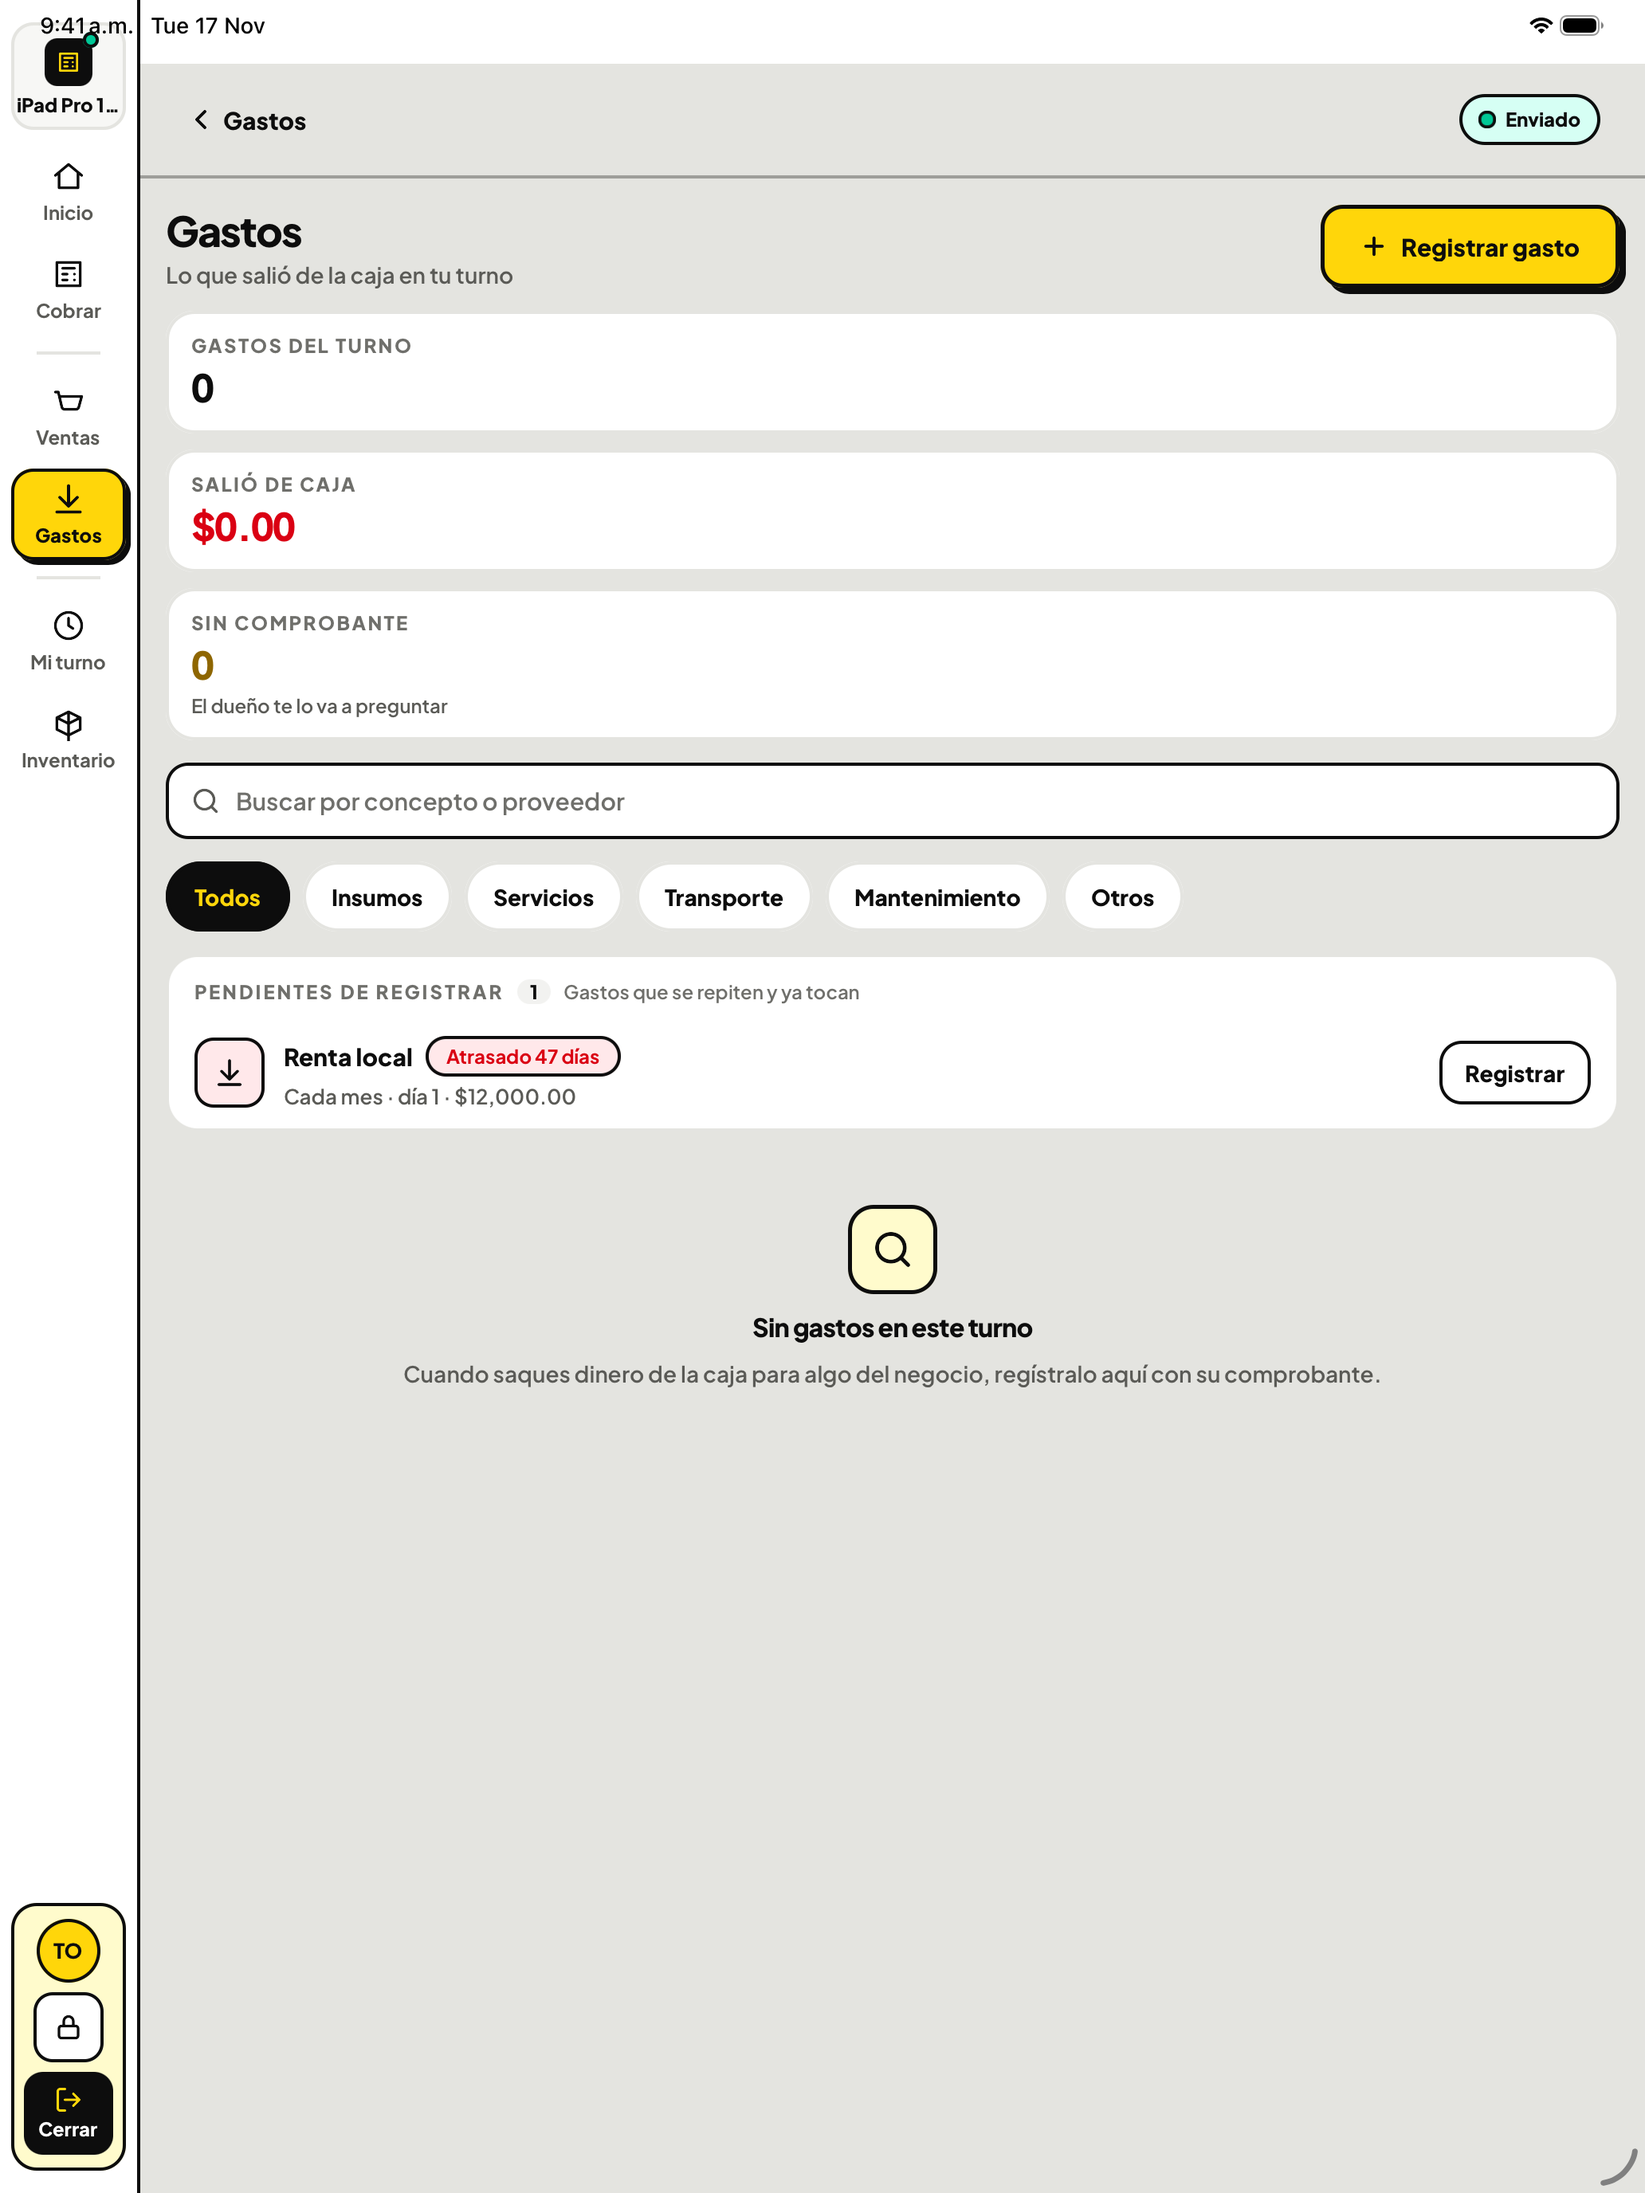
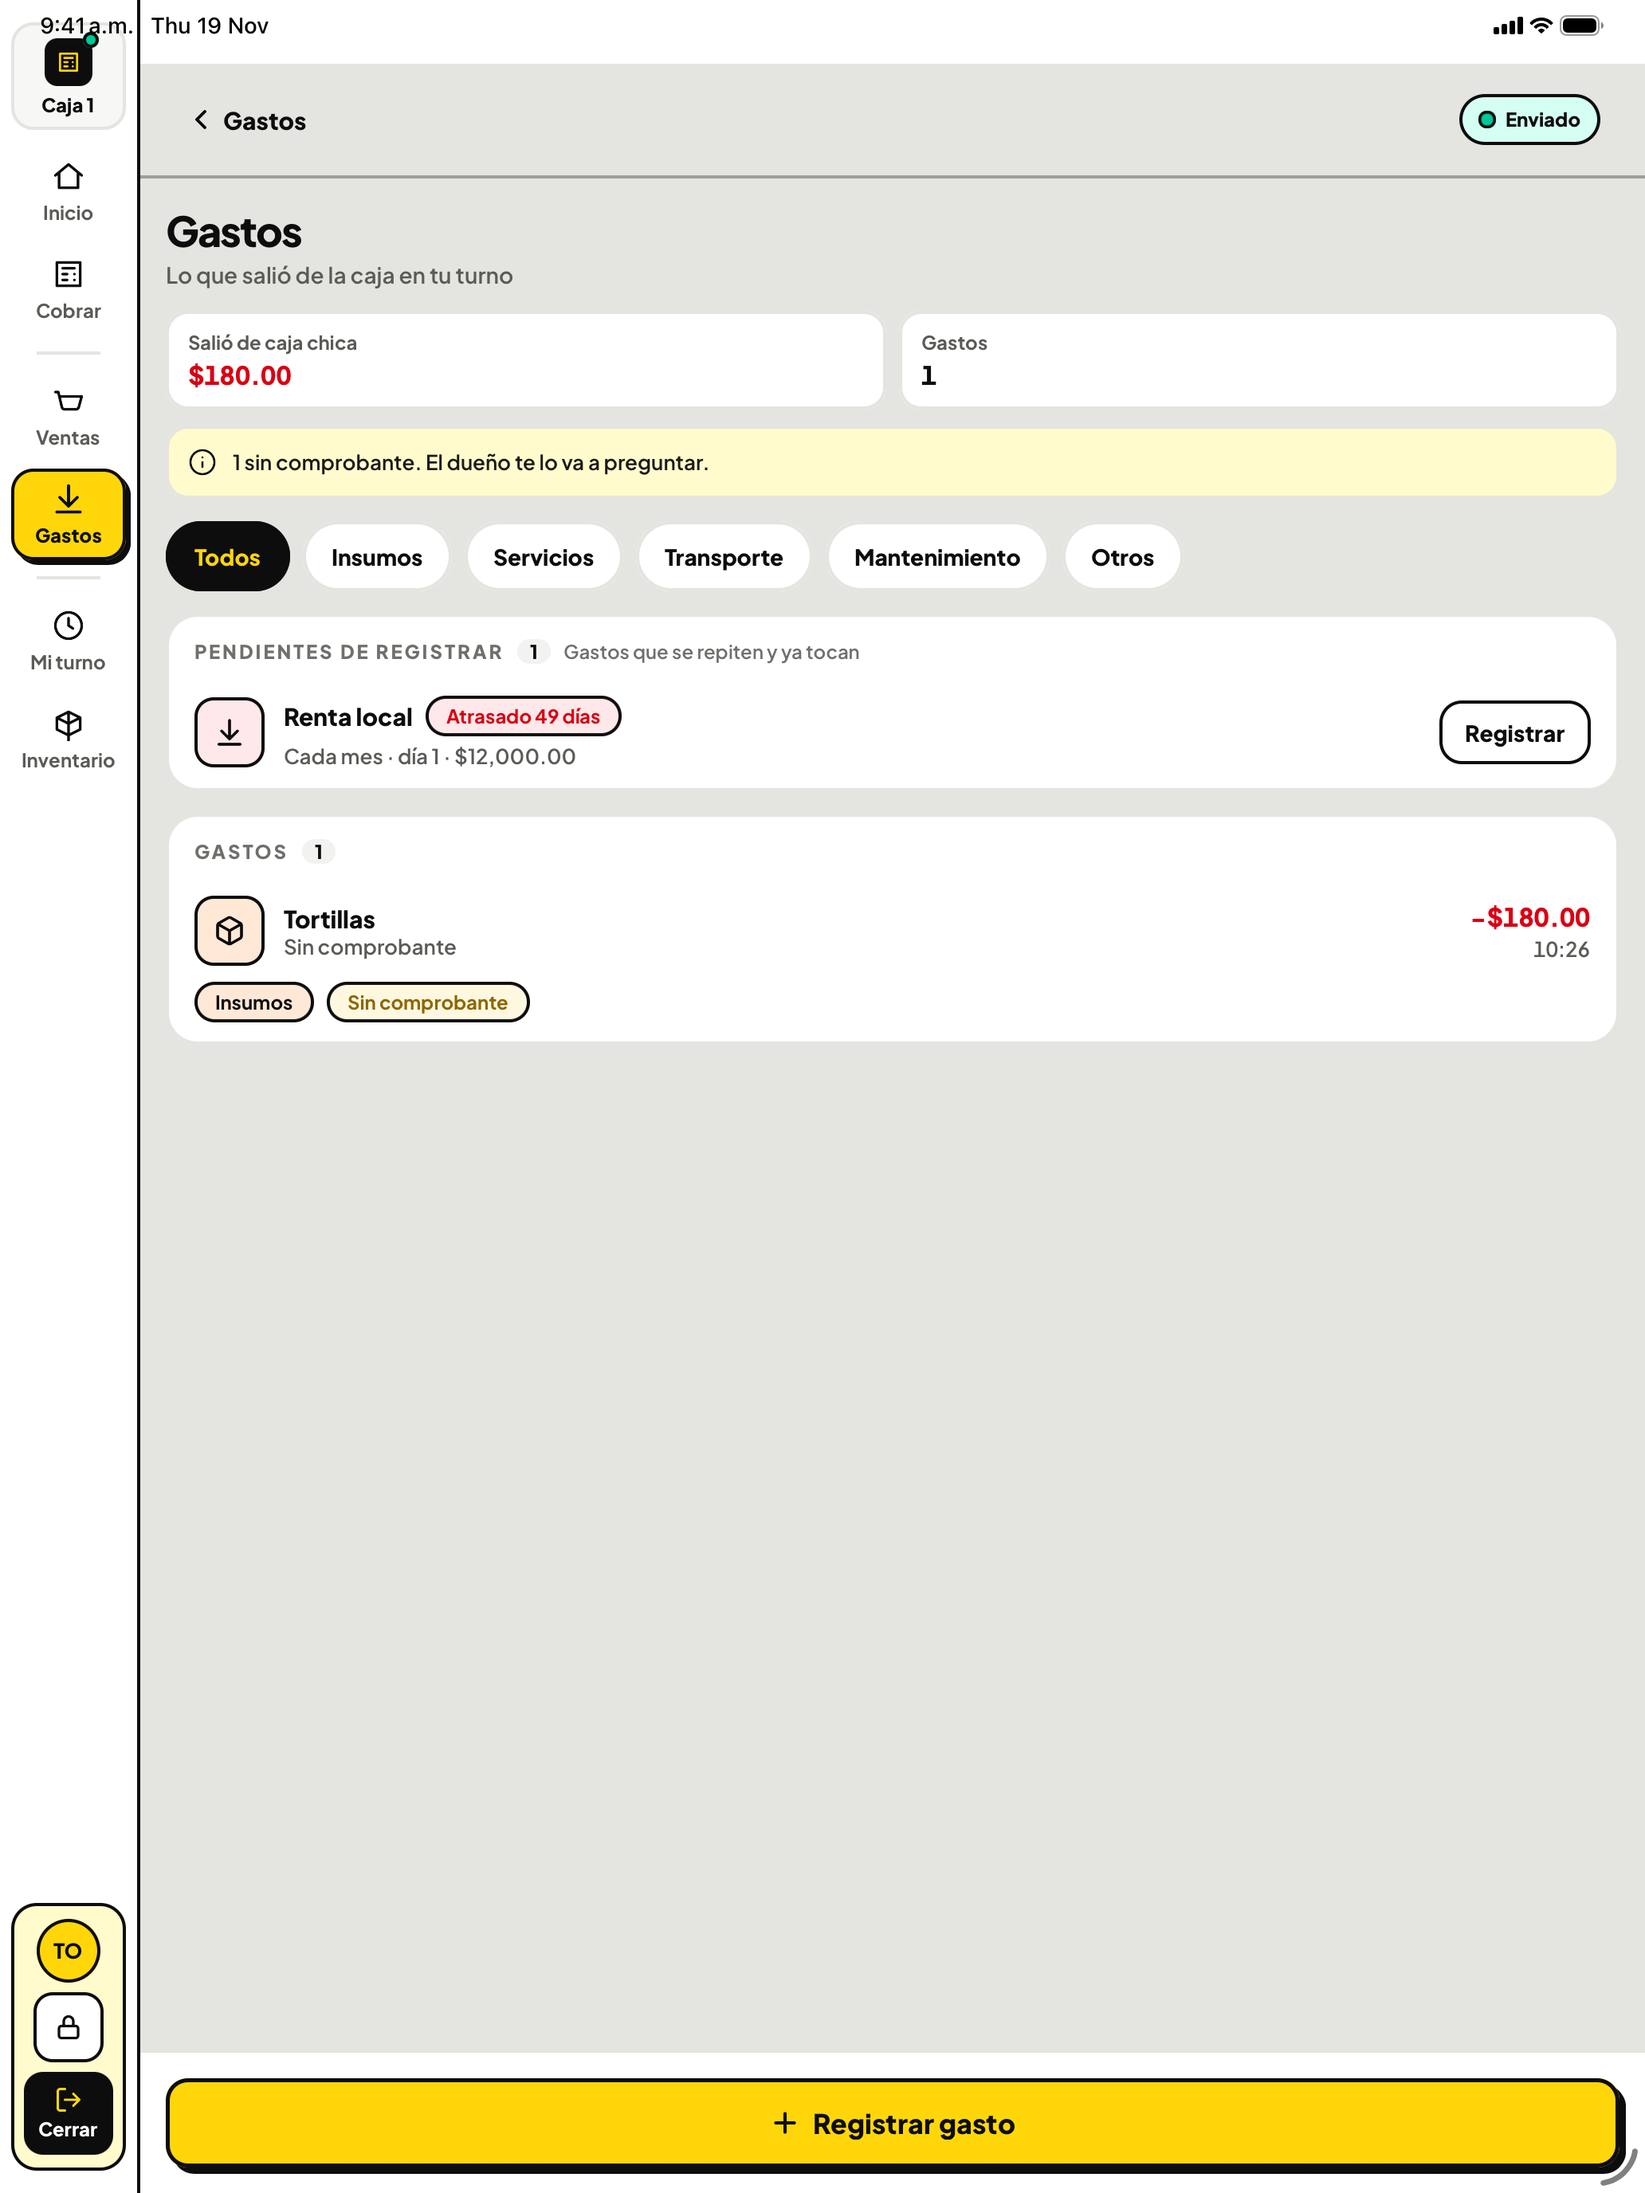
assets(store): the App Store set again, Inicio first, with a real gasto (item 5)
The set opened on Vincular's privacy notice. The numbers are now the
store's order: 01 Inicio (Don greets there), 02 Cobrar, 03 ¿Cómo paga?,
04 Venta hecha, 05 Mi turno, 06 Ventas, 07 Gastos, 08 Vincular last.

The demo data, as the review asked:
- The caja is «Caja 1», not «iPhone 17 Pro Max»: the simulator is renamed
  and rebooted for the run (the header reads the device's name).
- The bell reads 2, the owner's messages: all twenty products are stocked
  on every device, so none is a stock-bajo aviso, and the stale queue
  notice is gone with the fix this branch sits on (#175).
- One gasto, $180.00 of tortillas, recorded before Inicio's shot, so
  Inicio, Mi turno and Gastos all say $2,085.00. It has no comprobante:
  the phone's gasto form takes no photo yet.
- Every shot has its signal bars: the status bar override sets them.

The flow's helpers: an entrada centres its row, since a row at the foot of
the list sat under the tab bar and the tap opened Ventas; the gasto's
concepto is typed in pieces and retyped until it reads right, since the
driver dropped letters («Tortllas»).

Google Play keeps its 17 Nov set until the December re-shoot; its manifest
says the flow changed.

diff --git a/app-registration/apple/SCREENSHOTS.md b/app-registration/apple/SCREENSHOTS.md
@@ -1,28 +1,34 @@
 # Screenshots manifest — `screenshots/`
 
-Captured 2026-11-17 from the real app by one Maestro flow,
+Captured 2026-11-19 from the real app by one Maestro flow,
 [`store-screenshots.yaml`](../../apps/mobile/maestro/flows/internal/store-screenshots.yaml),
-against the contracts mock, on `main` with the brand font (PR #117). No
+against the contracts mock, on `main` plus the Avisos fix (PR #175). No
 compositing, no fixture screens: what the app shows for the demo taquería
 («Tacos La Esquina») is what the shots contain. Play's set comes from the same
 flow ([`../google-play/SCREENSHOTS.md`](../google-play/SCREENSHOTS.md)).
 
 ## The story
 
-The turno opens with a $2,000 fondo; ten products arrive (all twenty on the
-iPad, whose Cobrar shows every row); then three sales: cash with change (2 Alambre, 2 Agua de horchata,
-1 Café, $265.00 paid with $500), transfer ($150.00) and card ($227.50).
+The caja is «Caja 1». The turno opens with a $2,000 fondo; all twenty
+products arrive, so nothing reads «Quedan 0» and the bell counts only the
+owner's two messages; then three sales: cash with change (2 Alambre, 2 Agua de
+horchata, 1 Café, $265.00 paid with $500), transfer ($150.00) and card
+($227.50); and one gasto, $180.00 of tortillas. Expected cash: $2,085.00.
+
+The numbers are the store's order, not the capture's: Inicio first, because
+Don greets there; Vincular last, because a privacy notice should not open the
+set.
 
 | Shot             | Screen                                | What it shows                      |
 | ---------------- | ------------------------------------- | ---------------------------------- |
-| `01-activacion`  | Vincular, the typed code              | This app joins an existing negocio |
-| `02-inicio`      | Inicio with the turno open            | The operator's view of the day     |
-| `03-cobrar`      | Cobrar: catalogue + ticket building   | The money screen                   |
-| `04-checkout`    | «¿Cómo paga?», $500 and the change    | Cash, card, transfer, fiado        |
-| `05-venta-hecha` | Venta hecha with «Dale de cambio»     | The sale closes, receipt goes out  |
+| `01-inicio`      | Inicio with the turno open            | The operator's view of the day     |
+| `02-cobrar`      | Cobrar: catalogue + ticket building   | The money screen                   |
+| `03-checkout`    | «¿Cómo paga?», $500 and the change    | Cash, card, transfer, fiado        |
+| `04-venta-hecha` | Venta hecha with «Dale de cambio»     | The sale closes, receipt goes out  |
+| `05-mi-turno`    | Mi turno: the cash that must be there | The turno at a glance              |
 | `06-ventas`      | Ventas del turno                      | What the turno recorded            |
-| `07-gastos`      | Gastos del turno (cifras, recurrente) | What left the drawer               |
-| `08-mi-turno`    | Mi turno: the cash that must be there | The turno at a glance              |
+| `07-gastos`      | Gastos del turno with one gasto       | What left the drawer               |
+| `08-activacion`  | Vincular, the typed code              | This app joins an existing negocio |
 
 ## Devices and sizes (Apple's required sets)
 
@@ -33,12 +39,12 @@ iPad, whose Cobrar shows every row); then three sales: cash with change (2 Alamb
 
 ## Known imperfections (for the next re-shoot)
 
-- **Gastos shows no gasto**: since M-15 it lists only the turno's stamped
-  gastos, and the story records none, so its cifras read zero and the empty
-  state's search badge peeks above the tab bar. Only «Renta local», the due
-  recurrente, fills the screen.
-- **The iPad's code boxes** show the typed code faintly behind the first box
-  («VALDK7M3»): the hidden field's own text bleeds through (shot 01).
+- **The gasto has no comprobante**: the phone's gasto form takes no photo
+  yet, so the row and the note say «Sin comprobante».
+- **«Renta local» reads «Atrasado 49 días»**: the mock's recurrente is due on
+  the 1st and nobody registers it in the story.
+- **The iPad** draws its window-resize arc in the bottom-right corner, and the
+  status bar's «9:41 a.m.» sits over the rail's «Caja 1» chip; both are iPadOS.
 
 ## Reproducing
 
@@ -46,8 +52,12 @@ iPad, whose Cobrar shows every row); then three sales: cash with change (2 Alamb
    `EXPO_PUBLIC_E2E=1 EXPO_PUBLIC_API_BASE=http://127.0.0.1:3000` (see the
    Maestro README). Start Metro with `--clear` after switching branches: a
    stale Metro serves the old modules.
-2. Per simulator, once: the dev menu's «Tools button» off (the floating gear),
-   `xcrun simctl status_bar <udid> override --time 9:41 --batteryState discharging --batteryLevel 100`.
+2. Per simulator, once: the dev menu's «Tools button» off (the floating gear);
+   `xcrun simctl rename <udid> "Caja 1"`, then shut it down and boot it again
+   (the header reads the device's name, and only a reboot changes it); then
+   `xcrun simctl status_bar <udid> override --time 9:41 --dataNetwork wifi --wifiMode active --wifiBars 3 --cellularMode active --cellularBars 4 --operatorName '' --batteryState discharging --batteryLevel 100`
+   (a reboot drops the override; without the cellular flags a shot can lose
+   its signal bars). Rename it back afterwards.
 3. Per run: `MAESTRO_DEVICE_UDID=<udid> apps/mobile/maestro/scripts/fresh-install.sh --kill --reset-only`
    (never `clearState`: it also forgets the dev client's settings), then from
    `apps/mobile/maestro/flows/internal/`:

diff --git a/app-registration/google-play/SCREENSHOTS.md b/app-registration/google-play/SCREENSHOTS.md
@@ -41,6 +41,10 @@ the entrada sheet and the keyboard cover «Guardar».
 - **Gastos** shows no gasto: the story records none, so its cifras read zero.
 - The shots were taken from a debug build (the dev client), which draws
   exactly what a release build draws on these screens.
+- **The order and the story changed after this capture** (2026-11-19, the
+  App Store set): the flow now numbers the files in the store's order (Inicio
+  first, Vincular last), stocks all twenty products on every device and records
+  one gasto. These files keep the old names until the December re-shoot.
 
 ## Reproducing
 
